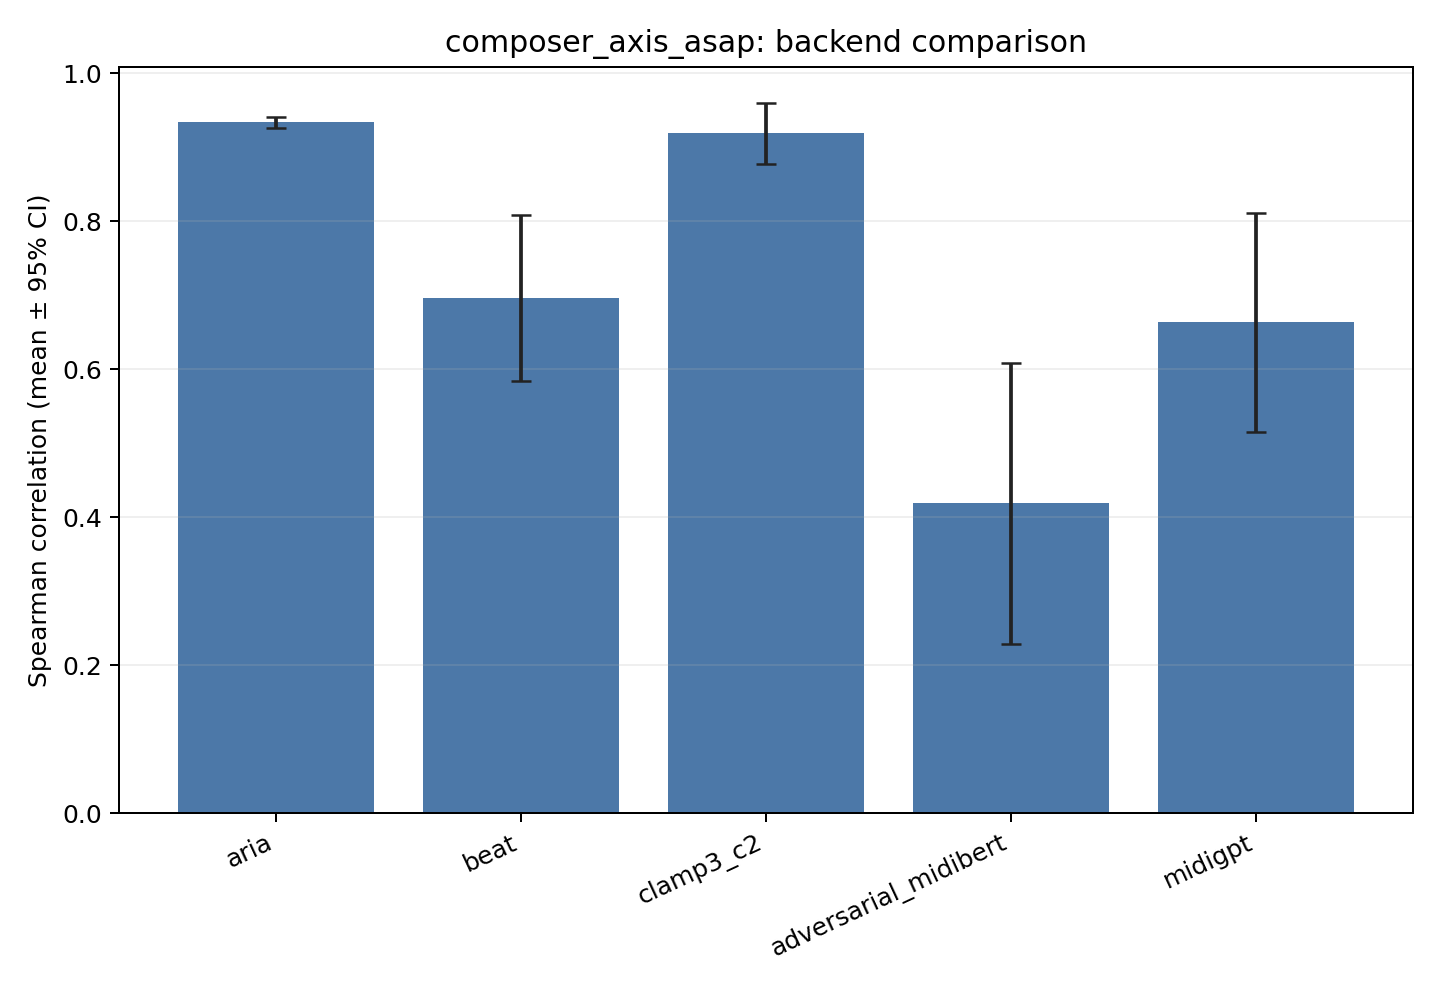
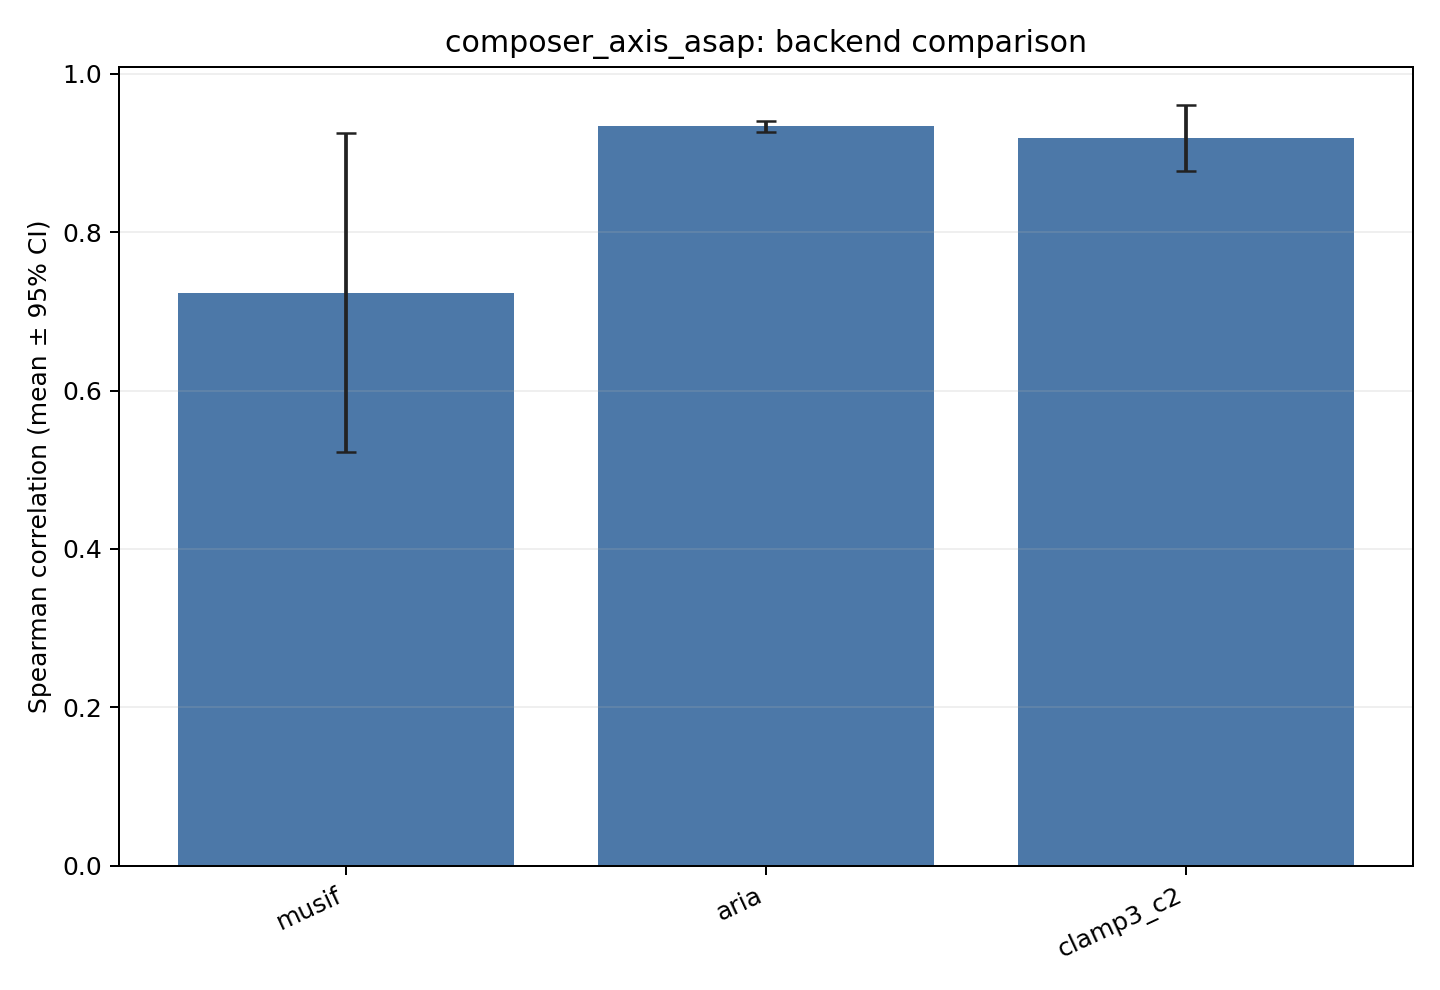
added comparison report

diff --git a/experiments/common/comparison_report.py b/experiments/common/comparison_report.py
@@ -47,7 +47,27 @@ PROJECTION_MODE_LABELS = {
     "0": "direction-based",
     "1": "regression hyper-plane",
 }
+COMPACT_ANCHOR_LABELS = {
+    "first_vs_last": "Det. extremes",
+    "random_sample_first_last": "Random sample",
+    "random_median": "Median rand.",
+    "percentile_medians": "Percentile med.",
+}
 GRID_SCORE_TOLERANCE = 1e-6
+
+
+def _bar_annotation(params) -> str | None:
+    if not params:
+        return None
+    method = params.get("anchor__method")
+    if not method:
+        return None
+    label = COMPACT_ANCHOR_LABELS.get(str(method), anchor_method_label(method))
+    regression = str(params.get("projection__regression", "False")).lower() in {
+        "true",
+        "1",
+    }
+    return f"{label}\n{'w/ reg' if regression else 'no reg'}"
 
 
 def _latest_run(repo_root: Path, experiment: str, backend: str) -> Path | None:
@@ -449,7 +469,9 @@ def _write_selection_sweep(path: Path, experiment: str, sweeps):
     return True
 
 
-def _write_aggregate_spearman(output_dir: Path, report_rows, experiments, backends):
+def _write_aggregate_spearman(
+    output_dir: Path, report_rows, experiments, backends, selected_params=None
+):
     import matplotlib
 
     matplotlib.use("Agg")
@@ -483,15 +505,35 @@ def _write_aggregate_spearman(output_dir: Path, report_rows, experiments, backen
 
     width = 0.8 / len(present)
     colors = plt.get_cmap("tab10").colors
+    selected_params = selected_params or {}
     for index, (backend, values) in enumerate(present):
         offset = (index - (len(present) - 1) / 2) * width
-        ax.bar(
+        bar_container = ax.bar(
             positions + offset,
             values,
             width,
             label=backend,
             color=colors[index % len(colors)],
         )
+        for bar, experiment in zip(bar_container, experiments):
+            annotation = _bar_annotation(
+                selected_params.get(experiment, {}).get(backend)
+            )
+            height = float(bar.get_height())
+            if annotation is None or height <= 0:
+                continue
+            ax.text(
+                bar.get_x() + bar.get_width() / 2.0,
+                height / 2.0,
+                annotation,
+                ha="center",
+                va="center",
+                rotation=90,
+                fontsize=5.5,
+                color="white",
+                linespacing=0.9,
+                clip_on=True,
+            )
     ax.set_xticks(positions)
     ax.set_xticklabels(experiments, rotation=25, ha="right")
     ax.set_ylabel("Spearman correlation")
@@ -521,6 +563,7 @@ def generate_comparison_reports(
 
     report_rows = {}
     plot_run_dirs = {}
+    selected_params = {}
     coverage_rows = []
     missing = []
     for experiment in experiments:
@@ -591,13 +634,14 @@ def generate_comparison_reports(
                     for row in rows
                     if row["metric"] == "spearman"
                 }
-                configs = {
-                    backend: _config_summary(
-                        experiment,
-                        *_selected_grid_params(run_dir, metrics[backend][0]),
+                configs = {}
+                selected_params[experiment] = {}
+                for backend, run_dir in plot_runs.items():
+                    params, grid_size = _selected_grid_params(
+                        run_dir, metrics[backend][0]
                     )
-                    for backend, run_dir in plot_runs.items()
-                }
+                    configs[backend] = _config_summary(experiment, params, grid_size)
+                    selected_params[experiment][backend] = params
                 _write_predicted_comparison(
                     staged_dir / f"{experiment}_predicted_vs_real.png",
                     experiment,
@@ -614,7 +658,9 @@ def generate_comparison_reports(
                     },
                 )
 
-        _write_aggregate_spearman(staged_dir, report_rows, experiments, backends)
+        _write_aggregate_spearman(
+            staged_dir, report_rows, experiments, backends, selected_params
+        )
         write_tsv(
             staged_dir / "plot_coverage.tsv",
             coverage_rows,

diff --git a/results/2026-10-23_reproduction/README.md b/results/2026-10-23_reproduction/README.md
@@ -4,84 +4,67 @@ Generated by the documented benchmark workflow:
 
 ```bash
 uv run python scripts/run_embedding_benchmark.py
-uv run python scripts/report_embedding_benchmark.py --backend aria beat clamp3_c2 adversarial_midibert midigpt
+uv run python scripts/report_embedding_benchmark.py --backend aria clamp3_c2 musif
 ```
 
-Full embedding matrix (5 backends x 7 experiments), reusing the cached embeddings under
-`cache/embeddings/`; the Musif handcrafted baseline is not part of this run. The matrix ran
-2026-10-23 10:21-17:14 (35 runs, ~6.9 h) and every one of the 35 experiment/backend pairs
-reported `available` coverage.
+Backends: aria, clamp3_c2, musif; experiments: 7. All 21 experiment/backend pairs reported `available` coverage.
 
 Artifacts: `model_comparison/` holds the per-experiment reports (Spearman bars, out-of-fold prediction overlays, per-backend n sweeps by anchor method and projection mode) plus `plot_coverage.tsv`; `provenance.tsv` maps every experiment/backend pair to the run directory it was plotted from.
 
-Sweep plots use a fixed 0-1 Spearman axis.
+Sweep plots use a fixed 0-1 Spearman axis. Bars in `all_embeddings_spearman.png` are labelled with the selected anchor-selection method and whether the regression projection was used.
 
 ## arousal_axis
 
 | backend | Spearman | 95% CI | folds | support |
 |---|---|---|---|---|
+| musif | 0.598 | 0.074 | 5 | 200 |
 | aria | 0.759 | 0.069 | 5 | 200 |
-| beat | 0.602 | 0.048 | 5 | 200 |
 | clamp3_c2 | 0.734 | 0.075 | 5 | 200 |
-| adversarial_midibert | 0.379 | 0.094 | 5 | 200 |
-| midigpt | 0.684 | 0.050 | 5 | 200 |
 
 ## composer_axis
 
 | backend | Spearman | 95% CI | folds | support |
 |---|---|---|---|---|
+| musif | 0.581 | 0.055 | 5 | 427 |
 | aria | 0.677 | 0.042 | 5 | 427 |
-| beat | 0.635 | 0.066 | 5 | 427 |
 | clamp3_c2 | 0.635 | 0.059 | 5 | 427 |
-| adversarial_midibert | 0.539 | 0.062 | 5 | 427 |
-| midigpt | 0.610 | 0.093 | 5 | 427 |
 
 ## composer_axis_asap
 
 | backend | Spearman | 95% CI | folds | support |
 |---|---|---|---|---|
+| musif | 0.723 | 0.201 | 5 | 70 |
 | aria | 0.934 | 0.007 | 5 | 70 |
-| beat | 0.696 | 0.113 | 5 | 70 |
 | clamp3_c2 | 0.919 | 0.041 | 5 | 70 |
-| adversarial_midibert | 0.419 | 0.190 | 5 | 70 |
-| midigpt | 0.663 | 0.148 | 5 | 70 |
 
 ## composer_axis_ewld
 
 | backend | Spearman | 95% CI | folds | support |
 |---|---|---|---|---|
+| musif | 0.246 | 0.137 | 5 | 301 |
 | aria | 0.352 | 0.105 | 5 | 301 |
-| beat | 0.321 | 0.090 | 5 | 301 |
 | clamp3_c2 | 0.373 | 0.101 | 5 | 301 |
-| adversarial_midibert | 0.216 | 0.174 | 5 | 301 |
-| midigpt | 0.256 | 0.108 | 5 | 301 |
 
 ## composer_axis_music21
 
 | backend | Spearman | 95% CI | folds | support |
 |---|---|---|---|---|
+| musif | 0.843 | 0.026 | 5 | 57 |
 | aria | 0.879 | 0.035 | 5 | 57 |
-| beat | 0.789 | 0.073 | 5 | 57 |
 | clamp3_c2 | 0.803 | 0.096 | 5 | 57 |
-| adversarial_midibert | 0.608 | 0.124 | 5 | 57 |
-| midigpt | 0.808 | 0.112 | 5 | 57 |
 
 ## pitch_axis
 
 | backend | Spearman | 95% CI | folds | support |
 |---|---|---|---|---|
+| musif | 1.000 | 0.000 | 5 | 2200 |
 | aria | 0.964 | 0.008 | 5 | 2200 |
-| beat | 0.952 | 0.012 | 5 | 2200 |
 | clamp3_c2 | 0.940 | 0.008 | 5 | 2200 |
-| adversarial_midibert | 0.444 | 0.062 | 5 | 2200 |
-| midigpt | 0.975 | 0.011 | 5 | 2200 |
 
 ## valence_axis
 
 | backend | Spearman | 95% CI | folds | support |
 |---|---|---|---|---|
+| musif | 0.501 | 0.110 | 5 | 200 |
 | aria | 0.758 | 0.032 | 5 | 200 |
-| beat | 0.501 | 0.104 | 5 | 200 |
 | clamp3_c2 | 0.762 | 0.028 | 5 | 200 |
-| adversarial_midibert | 0.288 | 0.035 | 5 | 200 |
-| midigpt | 0.464 | 0.102 | 5 | 200 |
